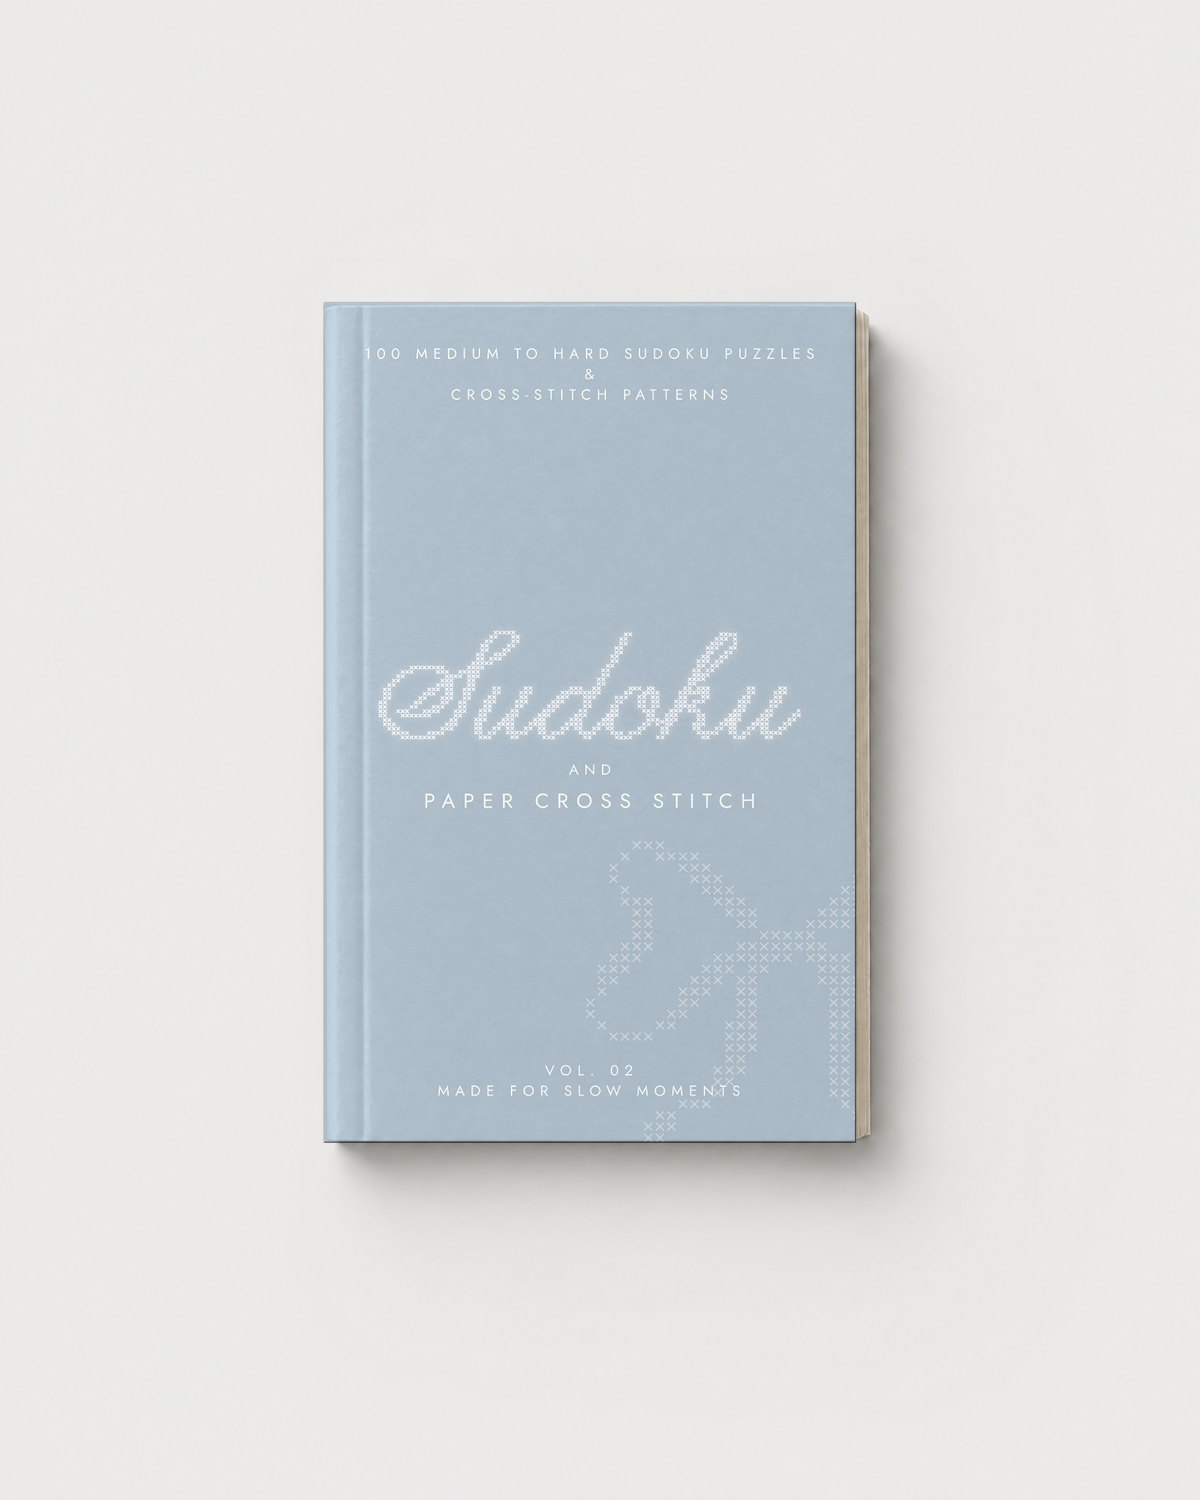
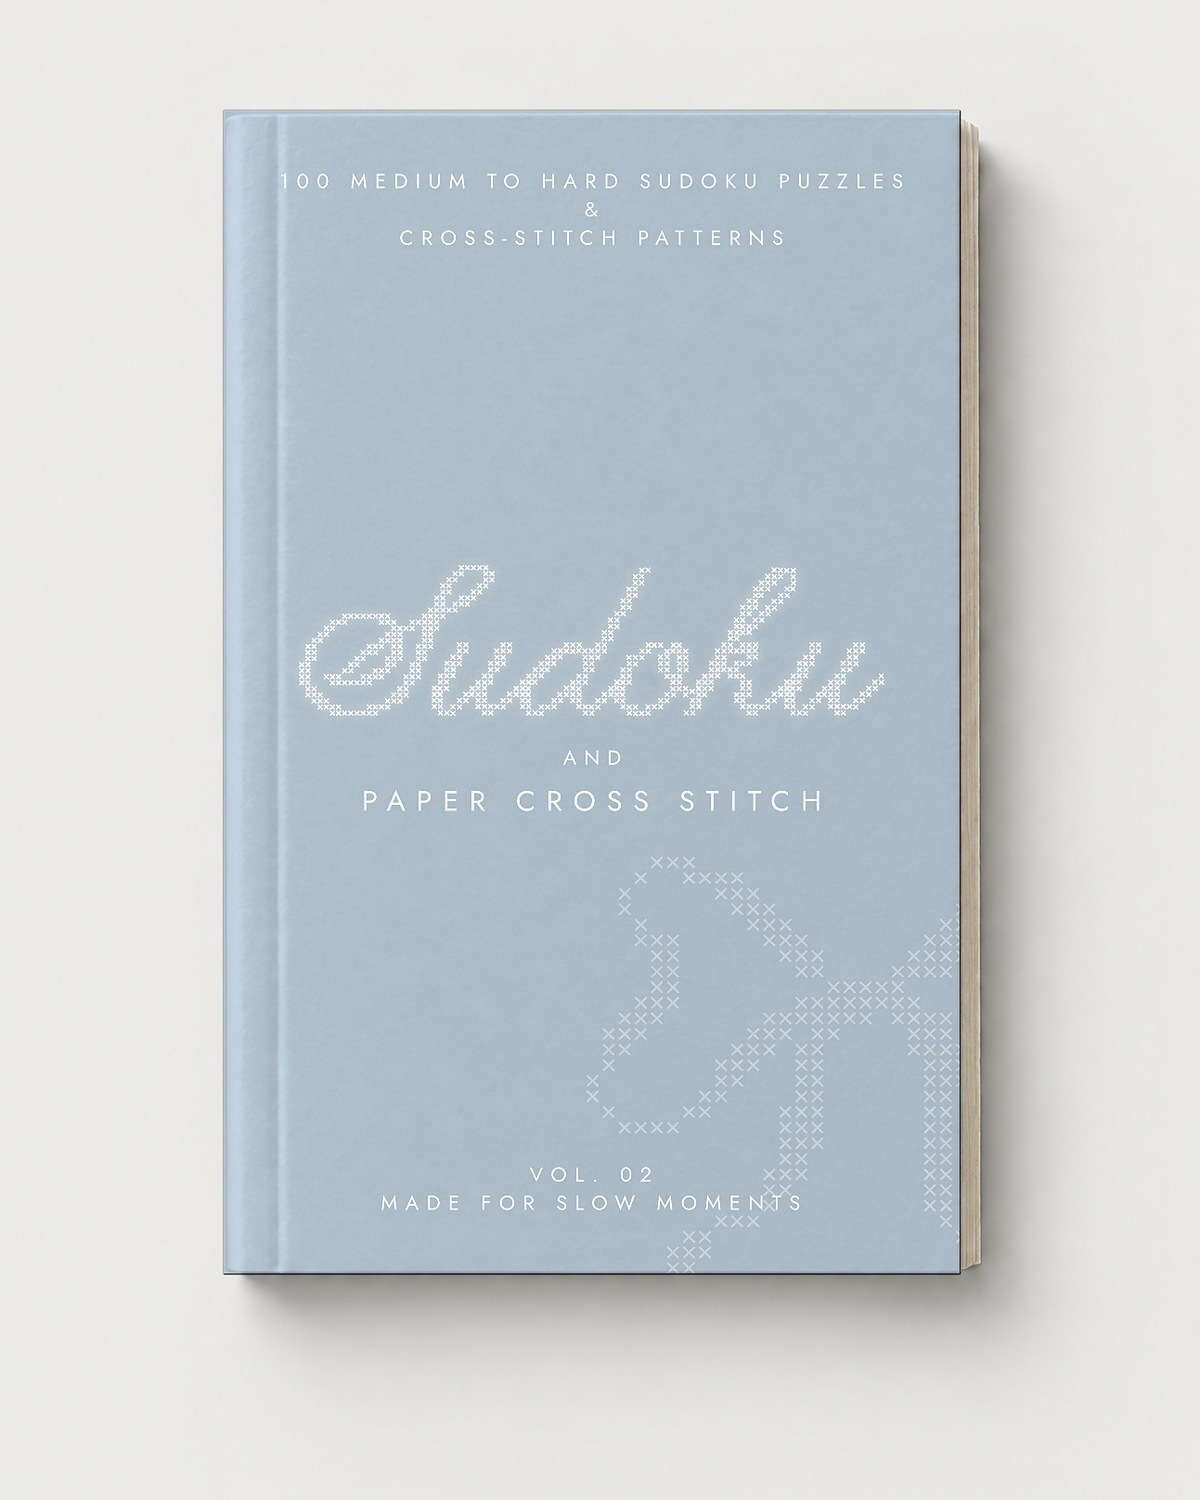
Vol. 02: scherpere boekfoto (uitsnede als Vol. 01), kleur als in Figma (Display P3)

diff --git a/index.html b/index.html
@@ -644,7 +644,7 @@
       <div class="shot">
         <span class="tag caps">Coming soon</span>
         <div class="slides">
-          <img src="img/sudoku-and-paper-cross-stitch-vol2.jpg" alt="Sudoku and Paper Cross Stitch, Vol. 02: light blue paperback with a cross-stitched title" loading="lazy">
+          <img src="img/sudoku-and-paper-cross-stitch-vol2.jpg?v=2" alt="Sudoku and Paper Cross Stitch, Vol. 02: light blue paperback with a cross-stitched title" loading="lazy">
           <img src="img/sudoku-and-paper-cross-stitch-vol2-inside.jpg" alt="Inside Vol. 02: a solved sudoku next to a leopard on a branch in cross stitch, filled in with a light blue pen" loading="lazy">
           <img class="mobile-only" src="img/sudoku-and-paper-cross-stitch-vol2-inside-empty.jpg" alt="Inside Vol. 02, still empty: a sudoku next to a leopard pattern of faint dots" loading="lazy">
         </div>
